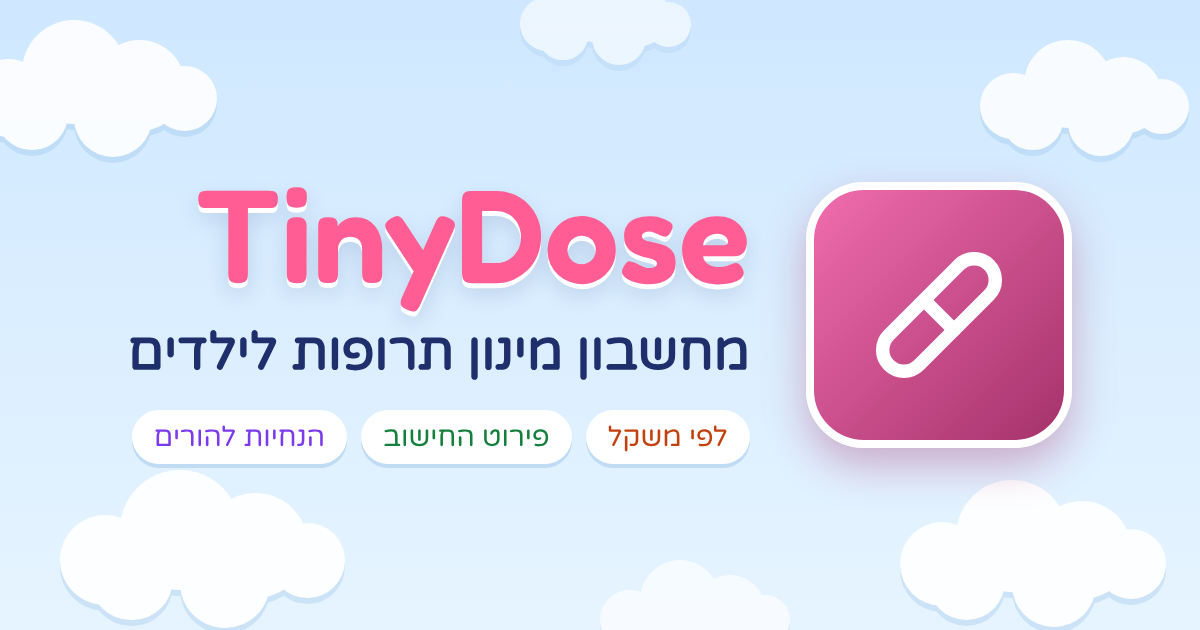
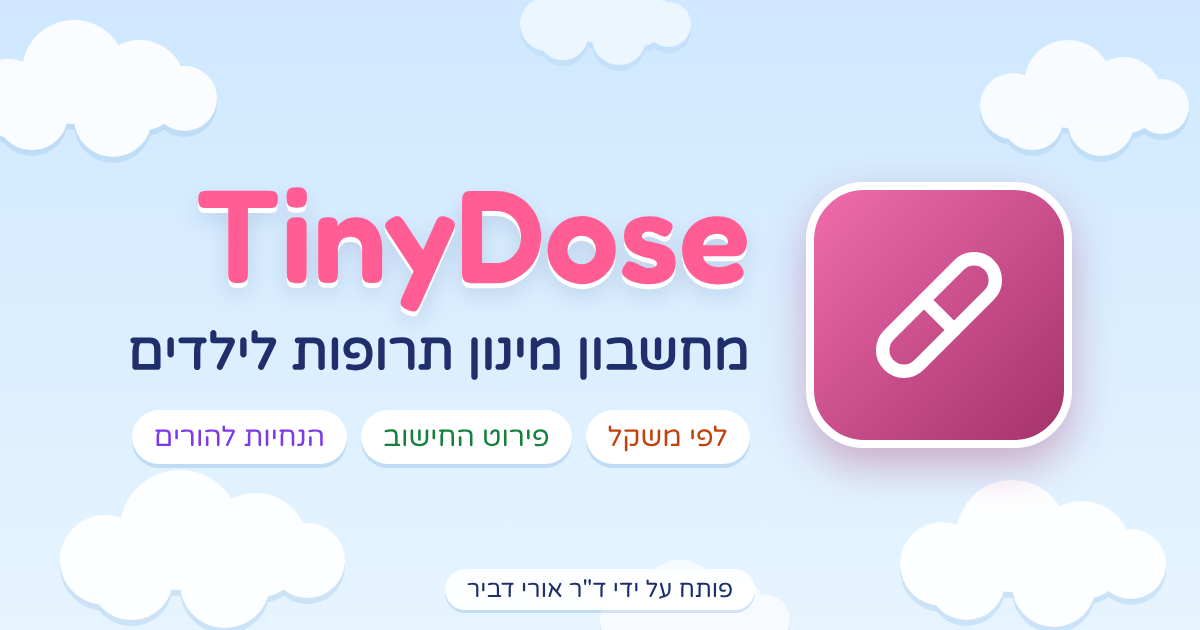
תמונת השיתוף: גרסה עם קרדיט "פותח על ידי ד"ר אורי דביר"
Claude-Session: https://claude.ai/code/session_01DabJxEfNnawzsXxSHS7dMM

Changed region(s): [[0.37, 0.9048, 0.6167, 0.9952]]

diff --git a/index.html b/index.html
@@ -11,7 +11,7 @@
   <meta property="og:title" content="TinyDose — מחשבון מינון תרופות לילדים">
   <meta property="og:description" content="מחשבון מינון סירופים לילדים לפי משקל, עם פירוט החישוב והנחיות להורים להדפסה ולוואטסאפ. כלי עזר לרופאים, פותח ע&quot;י ד&quot;ר אורי דביר.">
   <meta property="og:url" content="https://tinydose.drdevir.com/">
-  <meta property="og:image" content="https://tinydose.drdevir.com/icons/og-image.png">
+  <meta property="og:image" content="https://tinydose.drdevir.com/icons/og-image.png?v=2">
   <meta property="og:image:width" content="1200">
   <meta property="og:image:height" content="630">
   <meta property="og:image:alt" content="TinyDose — מחשבון מינון תרופות לילדים">
